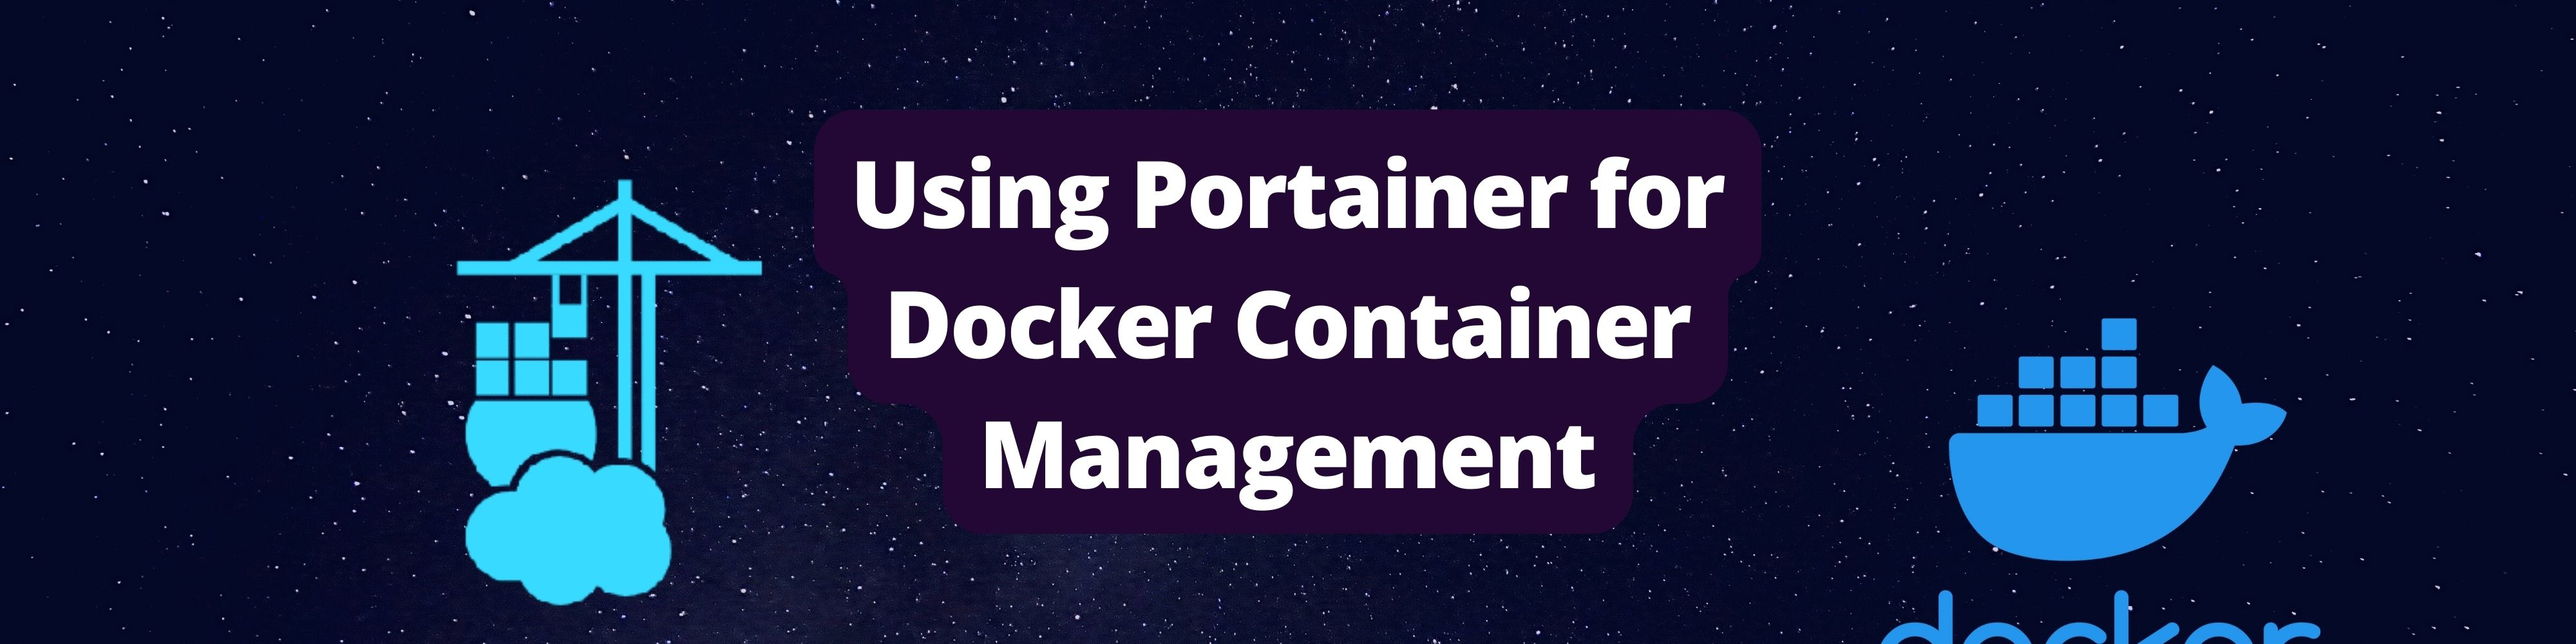
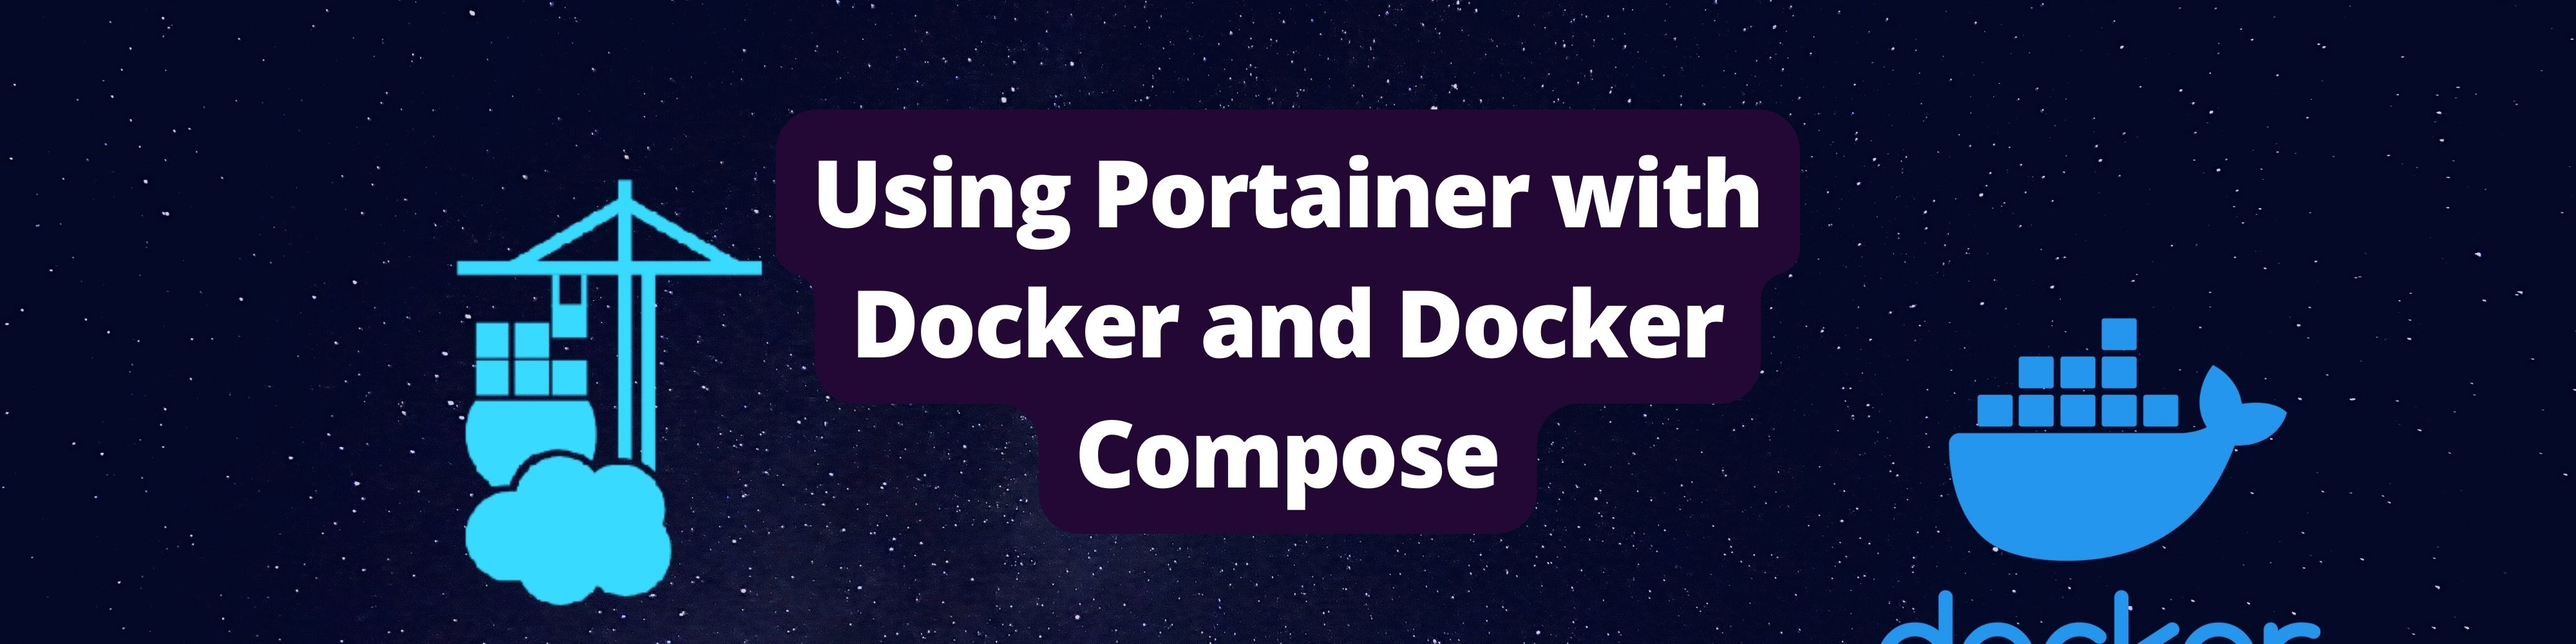
done fixing Using Portainer with Docker and Docker Compose

Changed region(s): [[0.2812, 0.155, 0.7188, 0.62], [0.3438, 0.62, 0.6562, 0.837]]

diff --git a/blog/_posts/2022-11-26-portainer-for-dcm.md b/blog/_posts/2022-11-26-portainer-for-dcm.md
@@ -1,5 +1,5 @@
 ---
-title: "Using Portainer for Docker Container Management"
+title: "Using Portainer with Docker and Docker Compose"
 categories:
   - Tutorials
 toc: true
